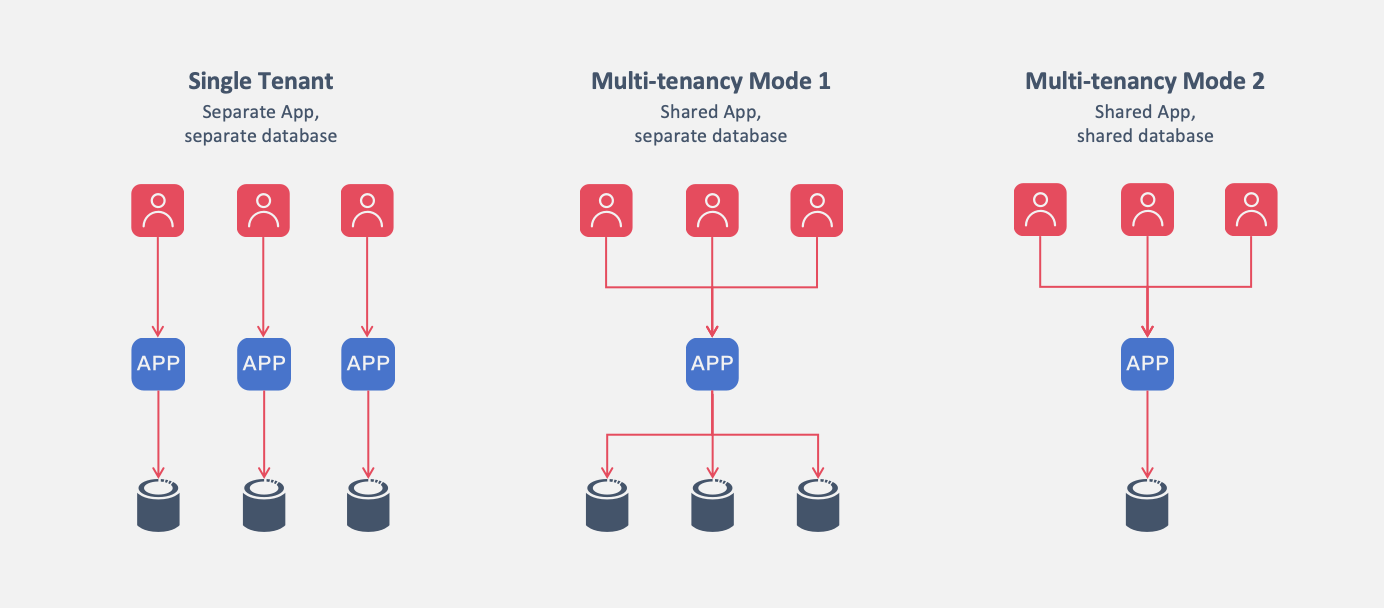
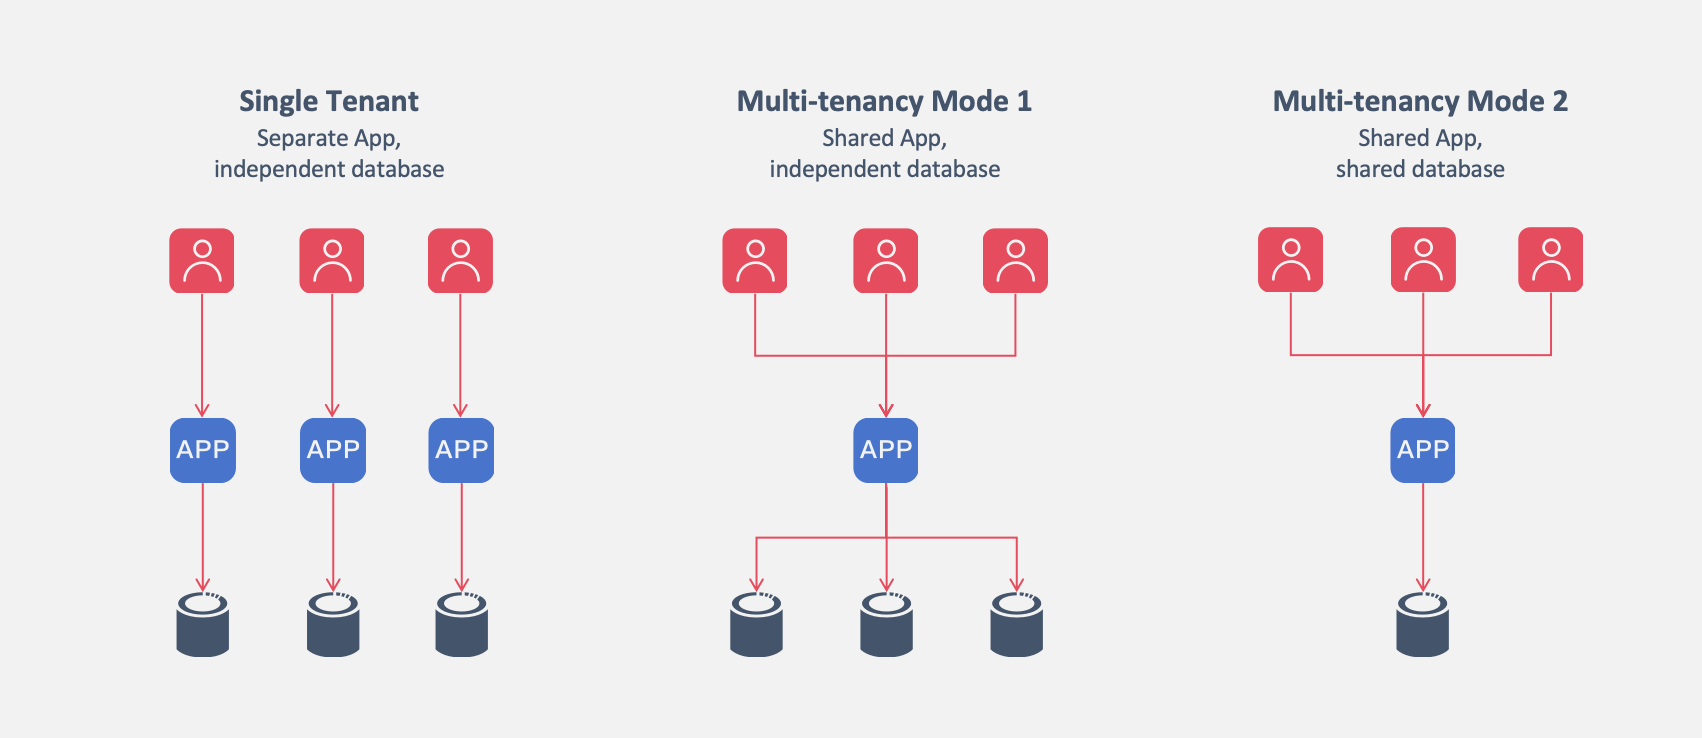
update multi-tenancy doc

diff --git a/pages/en-US/docs/develop/tenant.md b/pages/en-US/docs/develop/tenant.md
@@ -3,13 +3,12 @@
 ## 1. Introduction to Multi-Tenancy
 Multi-tenancy is a software architecture pattern that allows multiple tenants to share a single system instance while ensuring data isolation between tenants. This enables resource reuse, unified upgrades and maintenance, standardized data analysis, and large-scale promotion.
 
-OpenMeta natively supports multi-tenancy with shared table structures. Once multi-tenancy is enabled, data is automatically isolated by tenant.
-
+OpenMeta natively supports two multi-tenancy modes: shared application with shared database mode, and shared application with independent database mode. Once multi-tenancy is enabled, data is automatically isolated by tenant.
 ![Multi-tenancy](/image/multi-tenancy-en.png)
 
 ## 2. Enabling Multi-Tenancy
 
-### 2.1 Shared Application, Shared Database Mode
+### 2.1 Multi-Tenancy Mode 1: Shared Application with Shared Database
 Enable multi-tenancy by setting `system.multi-tenancy.enable` in the configuration file. For example:
 ```yaml
 system:
@@ -17,7 +16,7 @@ system:
     enable: true
 ```
 
-### 2.2 Shared Application, Separate Database Mode
+### 2.2 Multi-Tenancy Mode 2: Shared Application with Independent Database
 Since OpenMeta supports [dynamic multi-data sources](./datasource), the `UserInfo` object includes `tenantId` and `datasourceKey` fields.
 
 When a user logs in, these fields can be populated in the `ContextInterceptor` interceptor implementation.

diff --git a/pages/zh-CN/docs/develop/tenant.md b/pages/zh-CN/docs/develop/tenant.md
@@ -2,11 +2,11 @@
 ## 1 多租户介绍
 多租户是一种软件架构模式，允许多个租户（Tenant）共享同一个系统实例，同时又能确保租户间数据隔离，从而实现资源复用、统一升级维护、标准化数据分析，以及规模化推广。
 
-OpenMeta 原生支持共享表结构的多租户。启用多租户后，自动根据租户隔离数据。
+OpenMeta 原生支持两种多租户模式：共享应用-共享数据库模式、共享应用-独立数据库模式。启用多租户后，自动根据租户隔离数据。
 ![Multi tenancy](/image/multi-tenancy.png)
 
 ## 2 启用多租户
-### 2.1 共享应用、共享数据库模式
+### 2.1 多租户模式一：共享应用-共享数据库
 在配置文件中设置 `system.multi-tenancy.enable` 启用多租户。如：
 ```yaml
 system:
@@ -14,7 +14,7 @@ system:
     enable: true
 ```
 
-### 2.2 共享应用、独立数据库模式
+### 2.2 多租户模式二：共享应用-独立数据库
 由于 OpenMeta 本身支持 [动态多数据源](./datasource)，且 UserInfo 对象包含 tenantId 和 datasourceKey 两个字段。
 
 当用户登录时，在 ContextInterceptor 拦截器的实现类中，给这两个字段赋值即可。
